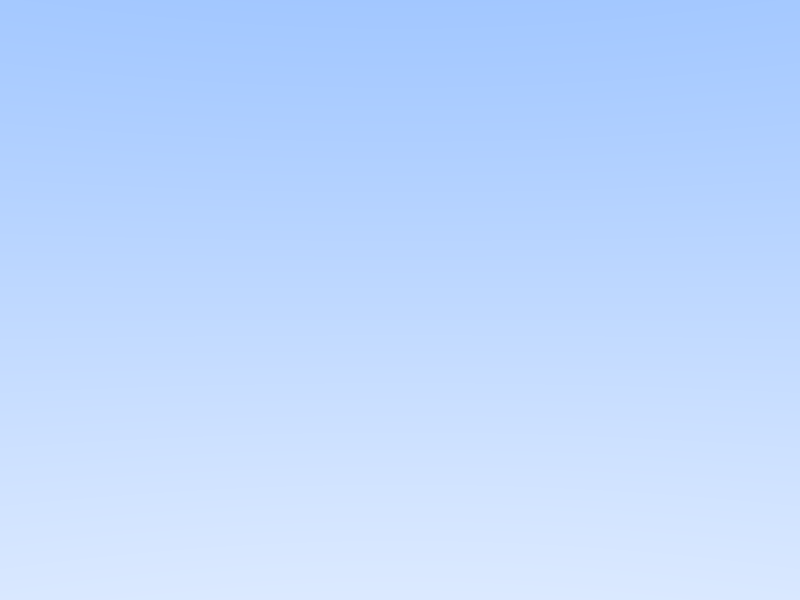
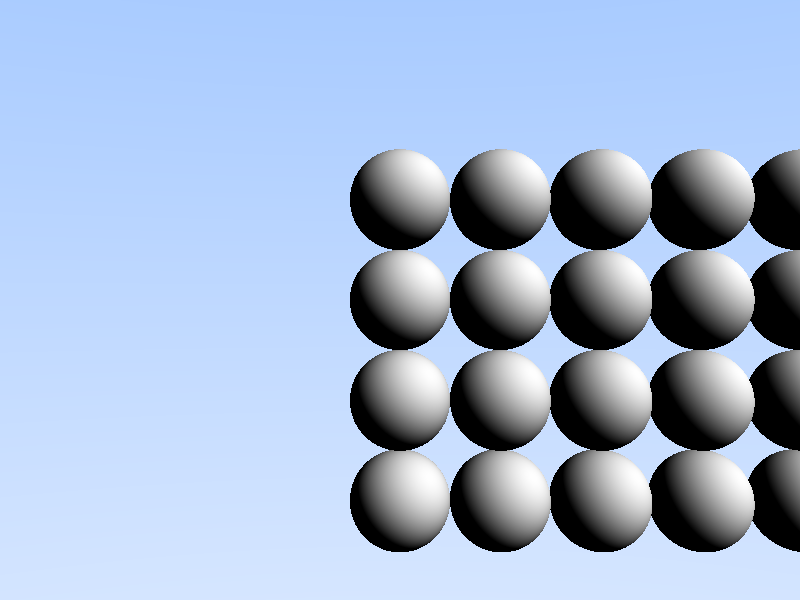
add ray_trace

diff --git a/painter/src/ray_trace.cpp b/painter/src/ray_trace.cpp
@@ -2,35 +2,49 @@
 
 namespace niu2x::painter {
 
-const RayTracePainter::Camera default_camera = {
-    { 2, 2 },
-    {
-        0,
-        0,
-        0,
-    },
-    {
-        1,
-        0,
-        0,
-    },
-    {
-        0,
-        0,
-        1,
-    },
-    2,
-};
+// const RayTracePainter::Camera default_camera = {
+//     { 4, 3 },
+//     {
+//         0,
+//         0,
+//         8,
+//     },
+//     {
+//         0,
+//         1,
+//         0,
+//     },
+//     {
+//         0,
+//         0,
+//         1,
+//     },
+//     2,
+// };
 
 RayTracePainter::RayTracePainter()
-: camera_(default_camera)
+: camera_({ 4, 3 }, 4)
 {
+    for (int i = 0; i < 10; i++) {
+        hittable_objects_.insert(make_shared<Sphere>(Vec3(i, 8, 6), 0.5));
+        hittable_objects_.insert(make_shared<Sphere>(Vec3(i, 8, 7), 0.5));
+        hittable_objects_.insert(make_shared<Sphere>(Vec3(i, 8, 8), 0.5));
+        hittable_objects_.insert(make_shared<Sphere>(Vec3(i, 8, 9), 0.5));
+    }
+
+    camera_.look_at(Vec3(0, 0, 8), Vec3(0, 1, 0), Vec3(0, 0, 1));
 }
 
 RayTracePainter::~RayTracePainter() { }
 
-static Color ray_color(const math::Ray& ray)
+Color RayTracePainter::ray_color(const Ray& ray)
 {
+    Vec3 light = normalize(Vec3(1, -1, 1));
+    auto hit = hittable_objects_.hit(ray, 0.1, 100);
+    if (hit) {
+        auto normal = hit.value().normal;
+        return ColorF(1, 1, 1) * max(dot(light, normal), 0.0);
+    }
     auto a = 0.5 * (ray.direction().z + 1.0);
     return ColorF(1.0, 1.0, 1.0) * (1.0 - a) + ColorF(0.5, 0.7, 1.0) * a;
 }
@@ -41,15 +55,14 @@ void RayTracePainter::paint(Image* image)
     auto screen_center = ray_origin + camera_.look * camera_.focal_length;
     auto image_size = image->size();
 
-    auto camera_side = cross(camera_.look, camera_.up);
-
     for (int row = 0; row < image_size.height; row++) {
         for (int col = 0; col < image_size.width; col++) {
             double px = (col + 0.5) / image_size.width - 0.5;
             double py = 0.5 - (row + 0.5) / image_size.height;
             px *= camera_.size.width;
             py *= camera_.size.height;
-            auto pixel_pos = screen_center + px * camera_side + py * camera_.up;
+            auto pixel_pos
+                = screen_center + px * camera_.side + py * camera_.up;
             auto ray_dir = normalize(pixel_pos - ray_origin);
             auto ray = math::Ray(ray_origin, ray_dir);
             image->set_pixel(row, col, ray_color(ray));

diff --git a/painter/src/ray_trace.h b/painter/src/ray_trace.h
@@ -1,18 +1,37 @@
 #include <niu2x/painter.h>
 #include <niu2x/math.h>
+#include "ray_trace/sphere.h"
 
 namespace niu2x::painter {
 
 using Vec3 = math::Vec3;
+using Ray = math::Ray;
 
 class RayTracePainter : public Painter {
 public:
+    using Sphere = ray_trace::Sphere;
     struct Camera {
-        DoubleSize size;
+        Camera(const DoubleSize& size, double focal_length)
+        : size(size)
+        , focal_length(focal_length)
+        {
+        }
+
+        const DoubleSize size;
+        const double focal_length;
+
+        void look_at(const Vec3& pos, const Vec3& look, const Vec3& up)
+        {
+            this->pos = pos;
+            this->look = normalize(look);
+            this->side = normalize(cross(this->look, up));
+            this->up = cross(this->side, this->look);
+        }
+
         Vec3 pos;
         Vec3 look;
         Vec3 up;
-        double focal_length;
+        Vec3 side;
     };
 
     RayTracePainter();
@@ -22,6 +41,9 @@ public:
 
 private:
     Camera camera_;
+    math::HittableGroup hittable_objects_;
+
+    Color ray_color(const Ray& ray);
 };
 
 } // namespace niu2x::painter

diff --git a/math/include/niu2x/math/ray.h b/math/include/niu2x/math/ray.h
@@ -2,6 +2,7 @@
 #define NIU2X_MATH_RAY_H
 
 #include <niu2x/api.h>
+#include <niu2x/type/std_alias.h>
 #include <niu2x/math/linalg_alias.h>
 
 namespace niu2x::math {
@@ -24,6 +25,36 @@ public:
 private:
     Vec3 origin_;
     Vec3 dir_;
+};
+
+struct NXAPI HitRecord {
+    Vec3 p;
+    Vec3 normal;
+    double t;
+    bool front_face;
+
+    void set_normal(const Vec3& ray, const Vec3& normal);
+};
+
+class NXAPI Hittable {
+public:
+    virtual ~Hittable() = default;
+    virtual Optional<HitRecord> hit(
+        const Ray& r, double min, double max) const = 0;
+};
+
+class NXAPI HittableGroup : public Hittable {
+public:
+    HittableGroup() = default;
+    virtual ~HittableGroup() = default;
+
+    void insert(SharedPtr<Hittable> ptr);
+
+    virtual Optional<HitRecord> hit(
+        const Ray& r, double min, double max) const override;
+
+private:
+    Vector<SharedPtr<Hittable>> objs_;
 };
 
 } // namespace niu2x::math

diff --git a/math/src/ray.cpp b/math/src/ray.cpp
@@ -1,0 +1,32 @@
+#include <niu2x/math/ray.h>
+
+namespace niu2x::math {
+
+void HitRecord::set_normal(const Vec3& ray, const Vec3& normal)
+{
+    this->normal = normal;
+    front_face = dot(normal, ray) < 0;
+}
+
+void HittableGroup::insert(SharedPtr<Hittable> ptr) { objs_.push_back(ptr); }
+
+Optional<HitRecord> HittableGroup::hit(
+    const Ray& ray, double min, double max) const
+{
+
+    Optional<HitRecord> rec;
+    auto closest_so_far = max;
+
+    for (const auto& object : objs_) {
+        auto hit = object->hit(ray, min, closest_so_far);
+
+        if (hit) {
+            closest_so_far = hit.value().t;
+            rec = hit;
+        }
+    }
+
+    return rec;
+}
+
+} // namespace niu2x::math

diff --git a/painter/src/ray_trace/sphere.cpp b/painter/src/ray_trace/sphere.cpp
@@ -1,0 +1,27 @@
+#include "sphere.h"
+#include <niu2x/math.h>
+
+namespace niu2x::painter::ray_trace {
+
+Sphere::Sphere(const Vec3& center, double radius)
+: center_(center)
+, radius_(radius)
+{
+}
+
+Optional<HitRecord> Sphere::hit(const Ray& ray, double min, double max) const
+{
+    double t = math::hit_sphere(center_, radius_, ray);
+    if (t >= 0) {
+        if (t >= min && t <= max) {
+            HitRecord record;
+            record.p = ray.at(t);
+            record.t = t;
+            record.normal = normalize(record.p - center_);
+            return record;
+        }
+    }
+    return Optional<HitRecord>();
+}
+
+} // namespace niu2x::painter::ray_trace

diff --git a/painter/src/ray_trace/sphere.h b/painter/src/ray_trace/sphere.h
@@ -1,0 +1,28 @@
+#ifndef NIU2X_PAINTER_RAY_TRACE_SPHERE_H
+#define NIU2X_PAINTER_RAY_TRACE_SPHERE_H
+
+#include <niu2x/math/ray.h>
+
+namespace niu2x::painter::ray_trace {
+
+using Vec3 = math::Vec3;
+using Hittable = math::Hittable;
+using HitRecord = math::HitRecord;
+using Ray = math::Ray;
+
+class Sphere : public Hittable {
+public:
+    Sphere(const Vec3& center, double radius);
+    virtual ~Sphere() = default;
+
+    virtual Optional<HitRecord> hit(
+        const Ray& r, double min, double max) const override;
+
+private:
+    Vec3 center_;
+    double radius_;
+};
+
+} // namespace niu2x::painter::ray_trace
+
+#endif

diff --git a/math/src/math.cpp b/math/src/math.cpp
@@ -1,1 +1,20 @@
 #include <niu2x/math.h>
+
+namespace niu2x::math {
+
+double hit_sphere(const Vec3& center, double radius, const Ray& r)
+{
+    auto oc = r.origin() - center;
+    auto a = length2(r.direction());
+    auto half_b = dot(oc, r.direction());
+    auto c = length2(oc) - radius * radius;
+    auto discriminant = half_b * half_b - a * c;
+
+    if (discriminant < 0) {
+        return -1.0;
+    } else {
+        return (-half_b - sqrt(discriminant)) / a;
+    }
+}
+
+} // namespace niu2x::math

diff --git a/math/include/niu2x/math.h b/math/include/niu2x/math.h
@@ -1,8 +1,9 @@
 #ifndef NIU2X_MATH_H
 #define NIU2X_MATH_H
 
-#include <niu2x/math/ray.h>
+#include <limits>
 #include <niu2x/math/linalg_alias.h>
+#include <niu2x/math/ray.h>
 
 namespace niu2x::math {
 
@@ -15,6 +16,10 @@ T clamp(const T& n, const T& min, const T& max)
         return max;
     return n;
 }
+
+NXAPI double hit_sphere(const Vec3& center, double radius, const Ray& r);
+
+inline constexpr double max_double = std::numeric_limits<double>::max();
 
 } // namespace niu2x::math
 

diff --git a/core/include/niu2x/type/std_alias.h b/core/include/niu2x/type/std_alias.h
@@ -11,6 +11,7 @@
 #include <thread>
 #include <vector>
 #include <atomic>
+#include <optional>
 
 namespace niu2x {
 
@@ -27,6 +28,9 @@ using UniquePtr = std::unique_ptr<T>;
 
 template <class T>
 using Vector = std::vector<T>;
+
+template <class T>
+using Optional = std::optional<T>;
 
 using std::make_shared;
 using std::make_unique;
